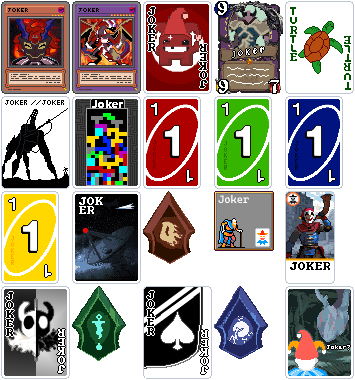
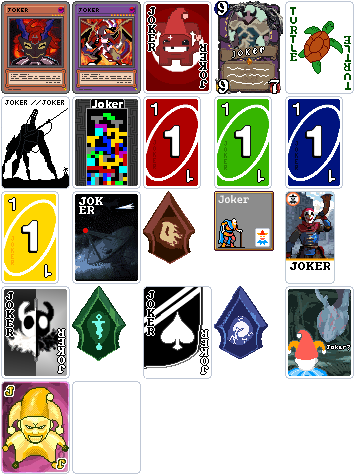
New Joker

diff --git a/README.md b/README.md
@@ -1,2 +1,9 @@
 # Warpzone
+
 A Vanilla-Friendly Joker expansion mod for Balatro
+
+#Credits
+
+_Freh: Main dev
+
+u/r2d2upgrade: Sprites for Jimbo, the Forbidden One
